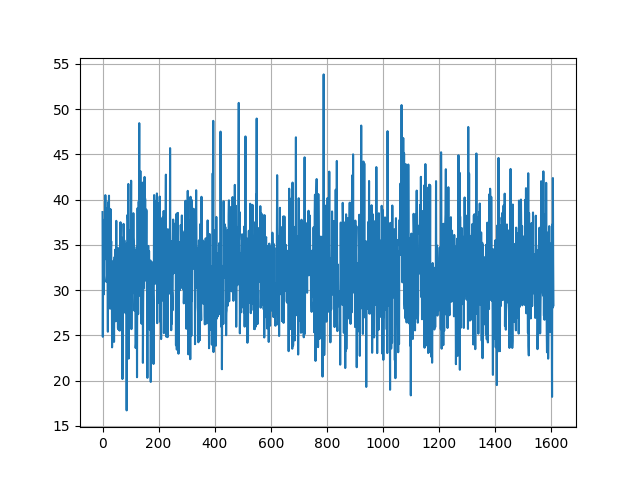
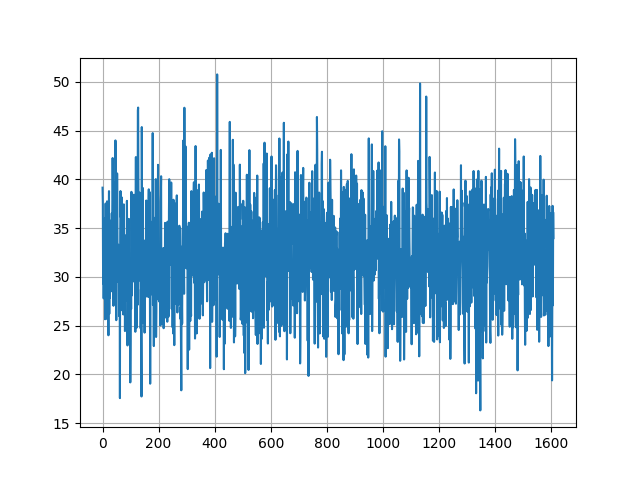
Implemented Angle-based loss
Angle-based loss uses MSE with the angles between points instead of the points themselves to remove the correction step.

diff --git a/Utils.py b/Utils.py
@@ -2,8 +2,9 @@ import hashlib
 import json
 import os
 import torch
+import torch.nn as nn
+import torch.nn.functional as F
 import numpy as np
-import sys
 from Bio.PDB import *
 
 # Index to amino acid dictionary
@@ -91,15 +92,45 @@ def empty_dir(path, delete=True):
 def RMSD(p1, p2):
     p1 = p1.clone()
     p2 = p2.clone()
-    #p1, p2 = torch.as_tensor(p1, dtype=torch.float32), torch.as_tensor(p2, dtype=torch.float32)
+    
     min_len = min(len(p1), len(p2))
     return torch.sqrt(torch.mean((p1[:min_len] - p2[:min_len])**2))
 
 def tm_score(p1, p2, lt):
-    #p1, p2 = torch.as_tensor(p1, dtype=torch.float32), torch.as_tensor(p2, dtype=torch.float32)
     d0 = 1.24 * (lt ** (1/3)) - 1.8
     distance = torch.norm(p1 - p2, dim=-1)
     return -torch.mean(1 / (1 + (distance / d0).pow(2)))
+
+class AngleLoss(nn.Module):
+    def __init__(self):
+        super(AngleLoss, self).__init__()
+
+    def compute_angles(self, points):
+        vectors = points[1:] - points[:-1]
+        
+        # Compute bond angles
+        dot_products = torch.sum(vectors[:-1] * vectors[1:], dim=-1)
+        norms = torch.norm(vectors[:-1], dim=-1) * torch.norm(vectors[1:], dim=-1)
+        bond_angles = torch.acos(dot_products / (norms + 1e-8))
+        
+        # Compute torsion angles
+        cross_products = torch.cross(vectors[:-1], vectors[1:], dim=-1)
+        dot_cross = torch.sum(cross_products[:-1] * cross_products[1:], dim=-1)
+        dot_vectors = torch.sum(vectors[:-2] * cross_products[1:], dim=-1)
+        torsion_angles = torch.atan2(dot_cross, dot_vectors)
+        
+        return bond_angles, torsion_angles
+
+    def forward(self, pred_points, target_points):
+        # Compute angles for predicted and target structures
+        pred_bond_angles, pred_torsion_angles = self.compute_angles(pred_points)
+        target_bond_angles, target_torsion_angles = self.compute_angles(target_points)
+        
+        bond_loss = F.mse_loss(pred_bond_angles, target_bond_angles)
+        torsion_loss = F.mse_loss(pred_torsion_angles, target_torsion_angles)
+
+        total_loss = bond_loss + torsion_loss
+        return total_loss
 
 def parse_rna(path, return_skips=False):
     parser = MMCIFParser(QUIET=True)
@@ -204,7 +235,7 @@ def kabsch_algorithm(P, Q):
     P, Q = P.clone(), Q.clone()
     
     H = P.T @ Q
-    U, S, Vt = torch.linalg.svd(H)
+    U, _, Vt = torch.linalg.svd(H)
     
     Vt_copy = Vt.clone()
     if torch.det(Vt_copy.T @ U.T) < 0:
@@ -215,9 +246,12 @@ def kabsch_algorithm(P, Q):
     return P, Q @ R
      
    
-def protein_to_rna(protein, rna_path, corrector, tm=False):
+def protein_to_rna(protein, rna_path, corrector, tm=False, angle=False):
     prot_points, _ = parse_protein(protein)
     rna_points, _ = parse_rna(rna_path)
+    if angle:
+        a = AngleLoss()
+        return a(prot_points,rna_points)
     prot_points = correct_protein_coords(prot_points, corrector)
     if len(prot_points)>len(rna_points):
         prot_points = prot_points[:len(rna_points)]

diff --git a/train_protify_local.py b/train_protify_local.py
@@ -1,5 +1,4 @@
 # Import libraries
-import importlib
 import os
 import sys
 from sys import version_info
@@ -194,7 +193,7 @@ def train(seqs, epochs=50, batch_size=32,tm_score=False, max_seq_len=150, conver
 
     dataloader = torch.utils.data.DataLoader(seqs, batch_size=batch_size, shuffle=True, drop_last=True, num_workers=8, pin_memory=True)
 
-    loss_fn = ProteinFoldLoss(pp_dist, tm_score)
+    loss_fn = ProteinFoldLoss(pp_dist, tm_score, angle=True)
 
     model_type = "alphafold2"
     download_alphafold_params(model_type, Path("."))
@@ -262,10 +261,11 @@ def train(seqs, epochs=50, batch_size=32,tm_score=False, max_seq_len=150, conver
 
 
 class ProteinFoldLoss(nn.Module):
-   def __init__(self, pp_dist, tm_score):
+   def __init__(self, pp_dist, tm_score, angle=False):
       super(ProteinFoldLoss, self).__init__()
       self.pp_dist = pp_dist
       self.tm_score = tm_score
+      self.angle = angle
   
    def forward(self, final_seqs):
       num_gpus = torch.cuda.device_count()
@@ -280,7 +280,7 @@ class ProteinFoldLoss(nn.Module):
             results = pool.starmap(run_parallel, zip(fasta_files, jobnames, gpu_assignments))
 
       loss = torch.stack([
-      protein_to_rna(path, get_structure(jobname, struct_path), self.pp_dist, tm=self.tm_score) for jobname, path in results])
+      protein_to_rna(path, get_structure(jobname, struct_path), self.pp_dist, tm=self.tm_score, angle=self.angle) for jobname, path in results])
       for jobname, _ in results:
           empty_dir(jobname)
 

diff --git a/run_converter.py b/run_converter.py
@@ -1,9 +1,9 @@
 from Converter import *
 from Utils import encode_rna, AA_DICT
 
-conv = torch.load("ConverterWeights/converter_epoch_9.pt", map_location=torch.device("cpu"))
+conv = torch.load("ConverterWeights/converter.pt", map_location=torch.device("cpu"))
 
-seqs = ["AAAAAAAAA", "GGUAUGAGGGUAUU"]
+seqs = ["AAAAAAAAAA", "GGUAUGAGGGUAUU"]
 
 processed_seqs = [encode_rna(s) for s in seqs] # (batch, seq, base)
 lengths = ([len(s) for s in processed_seqs])

diff --git a/graph_loss.py b/graph_loss.py
@@ -21,8 +21,8 @@ with open(file_path, "r") as file:
 s = [i for i in range(len(column1))]
 
 fig, ax = plt.subplots()
-ax.plot(s,column1)
+ax.plot(s,column2)
 
 ax.grid()
-plt.savefig("loss.png")
+plt.savefig("loss_pr.png")
 plt.show()
